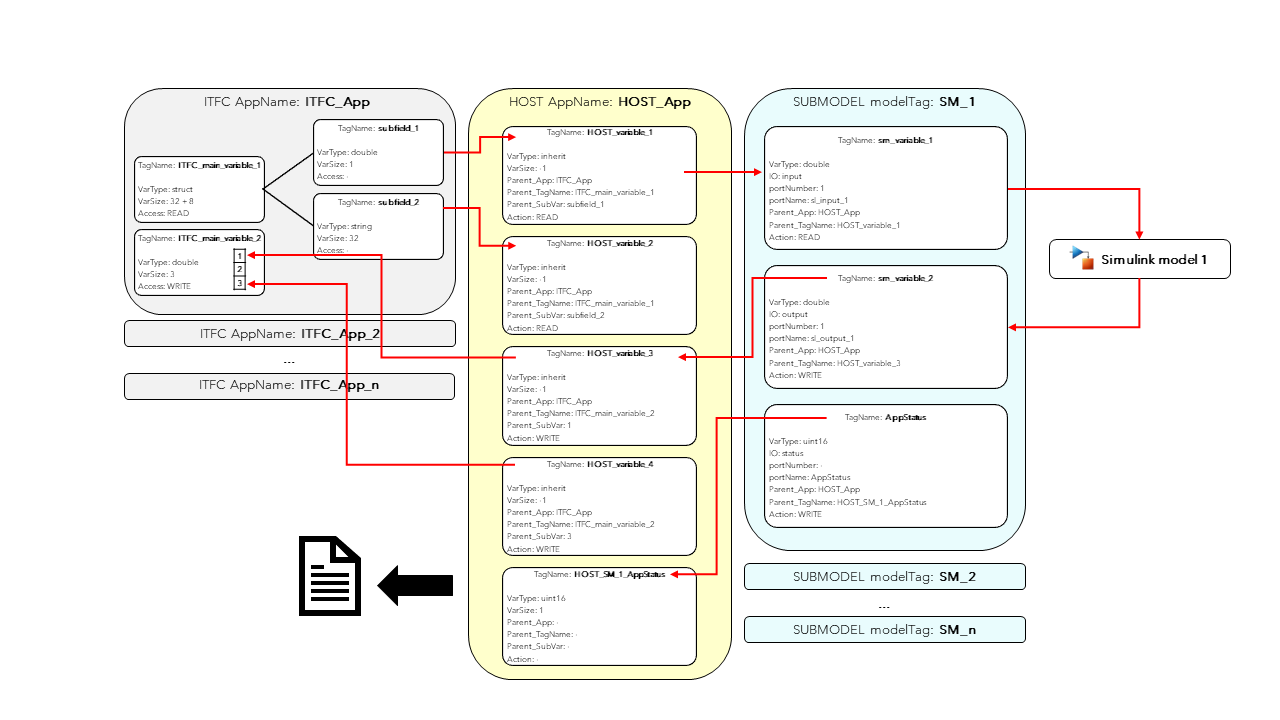
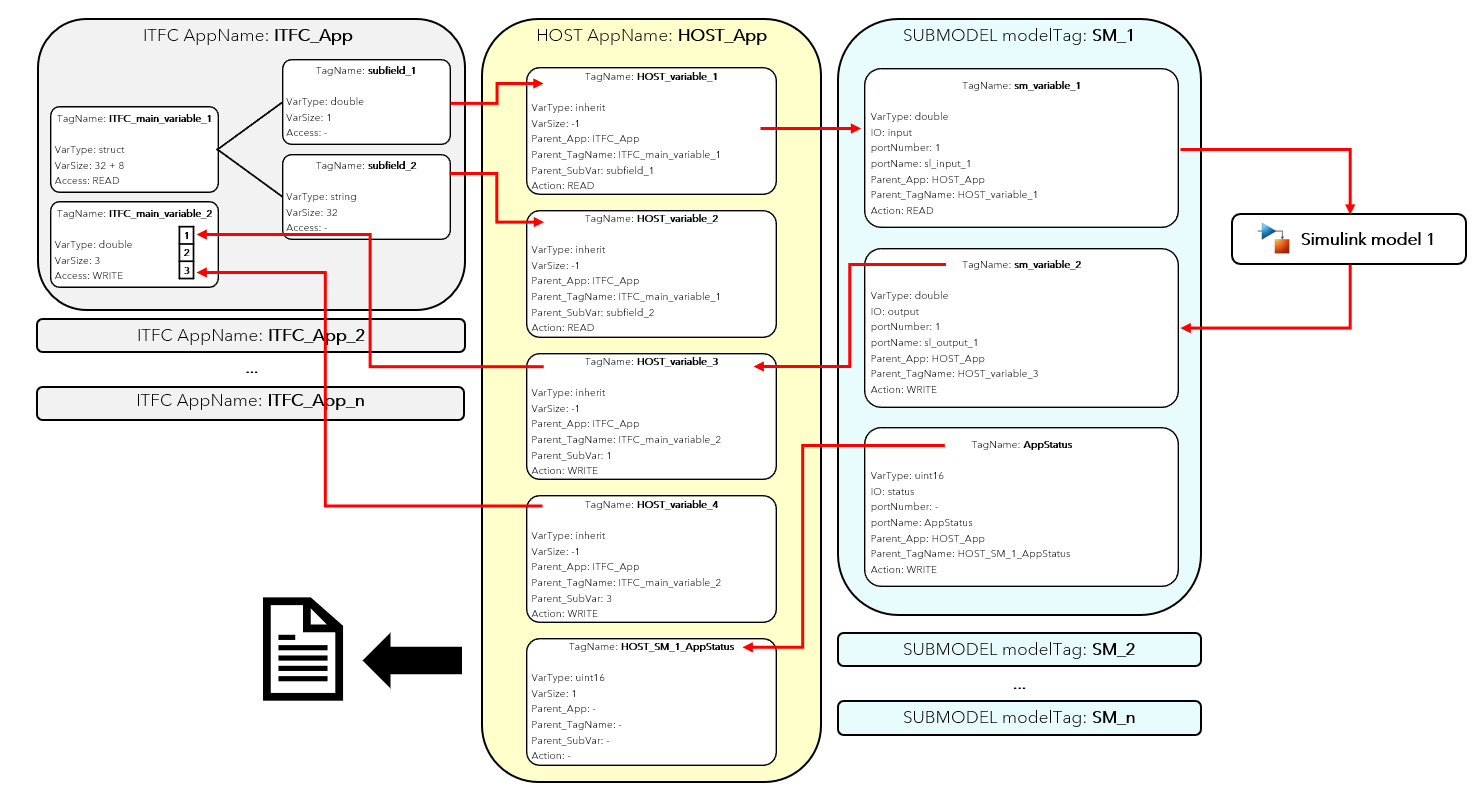
docs update

Changed region(s): [[0.0312, 0.0, 1.0, 1.0]]

diff --git a/docs/source/user_guide.rst b/docs/source/user_guide.rst
@@ -97,7 +97,7 @@ To promote separation between hardware-specific and research-specific operations
 
 ITFC applications are "inert", in the sense that they do not actively perform any reading or writing operation on any other application's SVI. HOST applications can read and write information to ITFC SVI's. 
 
-
+**ITFC Variables** 
 
 .. csv-table::  SVI_Definition - ITFC sheet
    :file: svi_definition_itfc.csv
@@ -106,11 +106,20 @@ ITFC applications are "inert", in the sense that they do not actively perform an
 
 A complete list of the supported data types is provided **here**
 
+HOST
+""""""""
+
+**HOST Variables** 
 
 .. csv-table::  SVI_Definition - HOST sheet
    :file: svi_definition_host.csv
    :widths: 30, 30, 40
    :header-rows: 1
+
+SUBMODEL
+""""""""
+
+**SUBMODEL Variables** 
 
 .. csv-table::  SVI_Definition - SUBMODELS sheet
    :file: svi_definition_submodels.csv
@@ -118,8 +127,8 @@ A complete list of the supported data types is provided **here**
    :header-rows: 1
 
 .. image:: org_chart.png
-   :width: 800
-
+   :width: 1482px
+   :height: 799px
 
 
 
